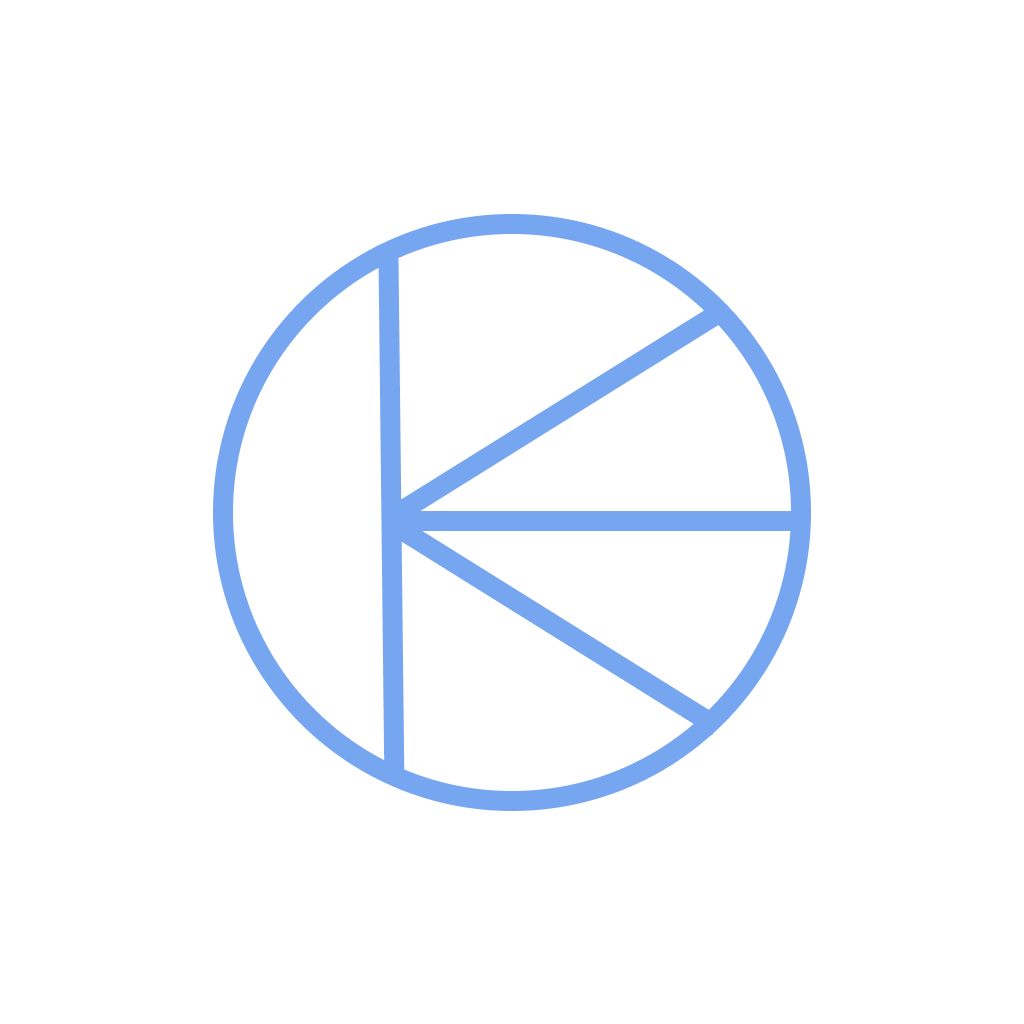
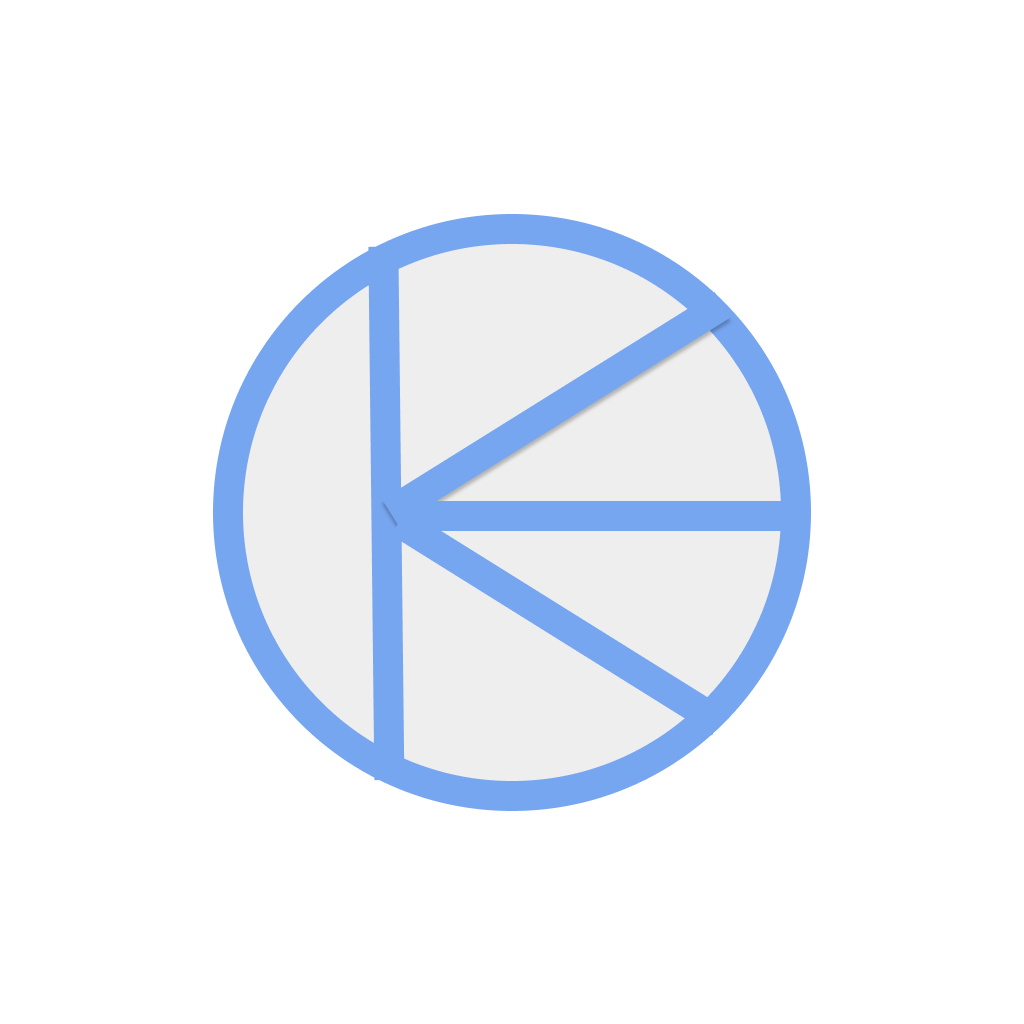
FIXES

diff --git a/src/components/molecules/ModalTitle.tsx b/src/components/molecules/ModalTitle.tsx
@@ -5,19 +5,21 @@ import {IconButton} from '../atoms';
 import { useSelector } from 'react-redux';
 import i18n from 'i18n-js';
 
-const createStyles = (theme) => StyleSheet.create({
+const createStyles = (theme, isDarkTheme) => StyleSheet.create({
     modalContainer: {
         flex: 1,
         justifyContent: 'center',
         alignItems: 'center',
     },
     modalContentContainer: {
-        backgroundColor: theme.secondaryColor,
+        backgroundColor: isDarkTheme ? theme.secondaryColor : theme.primaryColor,
         width: '90%',
         height: 200,
         justifyContent: 'space-around',
         alignItems: 'center',
         borderRadius: theme.borderRadius,
+        borderWidth: 3,
+        borderColor: theme.secondaryColor,
     },
     modalTitle: {
         fontSize: 20,
@@ -26,7 +28,7 @@ const createStyles = (theme) => StyleSheet.create({
     },
     input: {
         color: theme.textColor,
-        backgroundColor: theme.primaryColor,
+        backgroundColor: isDarkTheme ? theme.primaryColor : theme.secondaryColor,
         width: '90%',
         padding: 10,
         borderRadius: theme.borderRadius,
@@ -43,15 +45,16 @@ const createStyles = (theme) => StyleSheet.create({
         width: 40,
         height: 40,
         left: 0,
-    }
+        backgroundColor: isDarkTheme ? theme.primaryColor : theme.secondaryColor,
+    },
 });
 
 const ModalTitle = ({visible, setVisible, saveTitle, title: reminderTitle, goBack, cancelButton = false, modalTitle = i18n.t('organizerTitle')}) => {
     //@ts-ignore
-    const {theme} = useSelector(({themeReducer}) => {
+    const {theme, isDarkTheme} = useSelector(({themeReducer}) => {
         return themeReducer;
     });
-    const styles = createStyles(theme);
+    const styles = createStyles(theme, isDarkTheme);
 
     const inputRef = useRef<TextInput>(null);
 

diff --git a/src/config/theme.ts b/src/config/theme.ts
@@ -1,6 +1,5 @@
 const darkTheme = {
     textColor: '#ECB365',
-    textSecondaryColor: '#ECB365',
     placeholderTextColor: '#876b44',
     backgroundColor: '#041C32',
     primaryColor: '#064663',
@@ -12,8 +11,21 @@ const darkTheme = {
 }
 
 const ligthTheme = {
+    textColor: '#EEEEEE',
+    placeholderTextColor: 'gainsboro',
+    backgroundColor: '#EEEEEE',
+    primaryColor: '#61A4BC',
+    secondaryColor: '#5B7DB1',
+    buttonSize: 50,
+    borderRadius: 12,
+    borderRadiusButton: 100,
+    deleteButtonColor: '#D53E43',
+}
+
+/*
+
+const ligthTheme = {
     textColor: 'white',
-    textSecondaryColor: '#364E68',
     placeholderTextColor: 'gainsboro',
     backgroundColor: 'white',
     primaryColor: '#76a6f0',
@@ -23,6 +35,8 @@ const ligthTheme = {
     borderRadiusButton: 100,
     deleteButtonColor: '#D53E43',
 }
+
+*/
 
 export {
     darkTheme,
